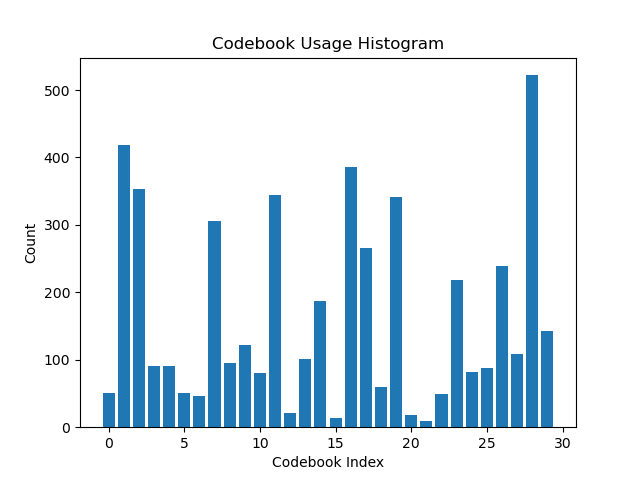
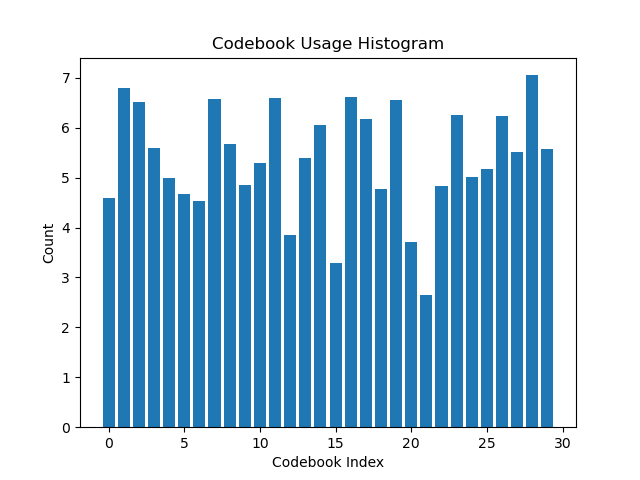
updated

diff --git a/src/better_train.py b/src/better_train.py
@@ -364,6 +364,8 @@ def train(models: Dict, optimizers: Dict, schedulers:Dict, speech_loader: DataLo
         ) # [B, T // 2, C], [B, T // 2, C], [B, T // 2] # step 3 -- all the necessary masks are already applied in the tokenizer
         output['commitment_loss'] = commitment_loss
         output['diversity_loss'] = diversity_loss
+        output['z_q'] = z_q
+        output['z_q_disc'] = z_q_disc
         
         up_out = models['upsample'](z_q)
         up_out = up_out[:,:mask.shape[1],:] * mask # [B, T, C]       
@@ -439,8 +441,6 @@ def train(models: Dict, optimizers: Dict, schedulers:Dict, speech_loader: DataLo
                 writer.add_scalar('Discriminator_loss/discriminator_fake_loss', disc_loss_components['loss_fake'], step)
                 writer.add_scalar('Discriminator_loss/discriminator_gp_loss', disc_loss_components['grad_pen'], step)
         
-        if step % config['logging']['step'] == 0:  
-            print(f"LR enc: {schedulers['enc'].get_last_lr()[0]}, LR down: {schedulers['down'].get_last_lr()[0]}, LR dec: {schedulers['dec'].get_last_lr()[0]}, LR disc: {schedulers['disc'].get_last_lr()[0]}, LR codebook: {schedulers['codebook'].get_last_lr()[0]}")
             
         # Backpropagation   
         if step % config['train']['discriminator_freq'] == 0:
@@ -476,7 +476,8 @@ def train(models: Dict, optimizers: Dict, schedulers:Dict, speech_loader: DataLo
             
             # scheduler step
             for scheduler in schedulers.values():
-                scheduler.step()
+                scheduler.step()    
+           
             # Zero gradients after the step
             for optimizer in optimizers.values():
                 optimizer.zero_grad()

diff --git a/src/models/tokenizer.py b/src/models/tokenizer.py
@@ -152,8 +152,8 @@ class Tokenizer(nn.Module):
         # self.codebook_usage += histogram.cpu()
         
         plt.clf() 
-        # plt.bar(range(self.num_codebooks), torch.log(histogram).cpu().numpy())
-        plt.bar(range(self.num_codebooks), histogram.cpu().numpy())
+        plt.bar(range(self.num_codebooks), torch.log(histogram).cpu().numpy())
+        # plt.bar(range(self.num_codebooks), histogram.cpu().numpy())
         plt.xlabel("Codebook Index")
         plt.ylabel("Count")
         plt.title("Codebook Usage Histogram")
